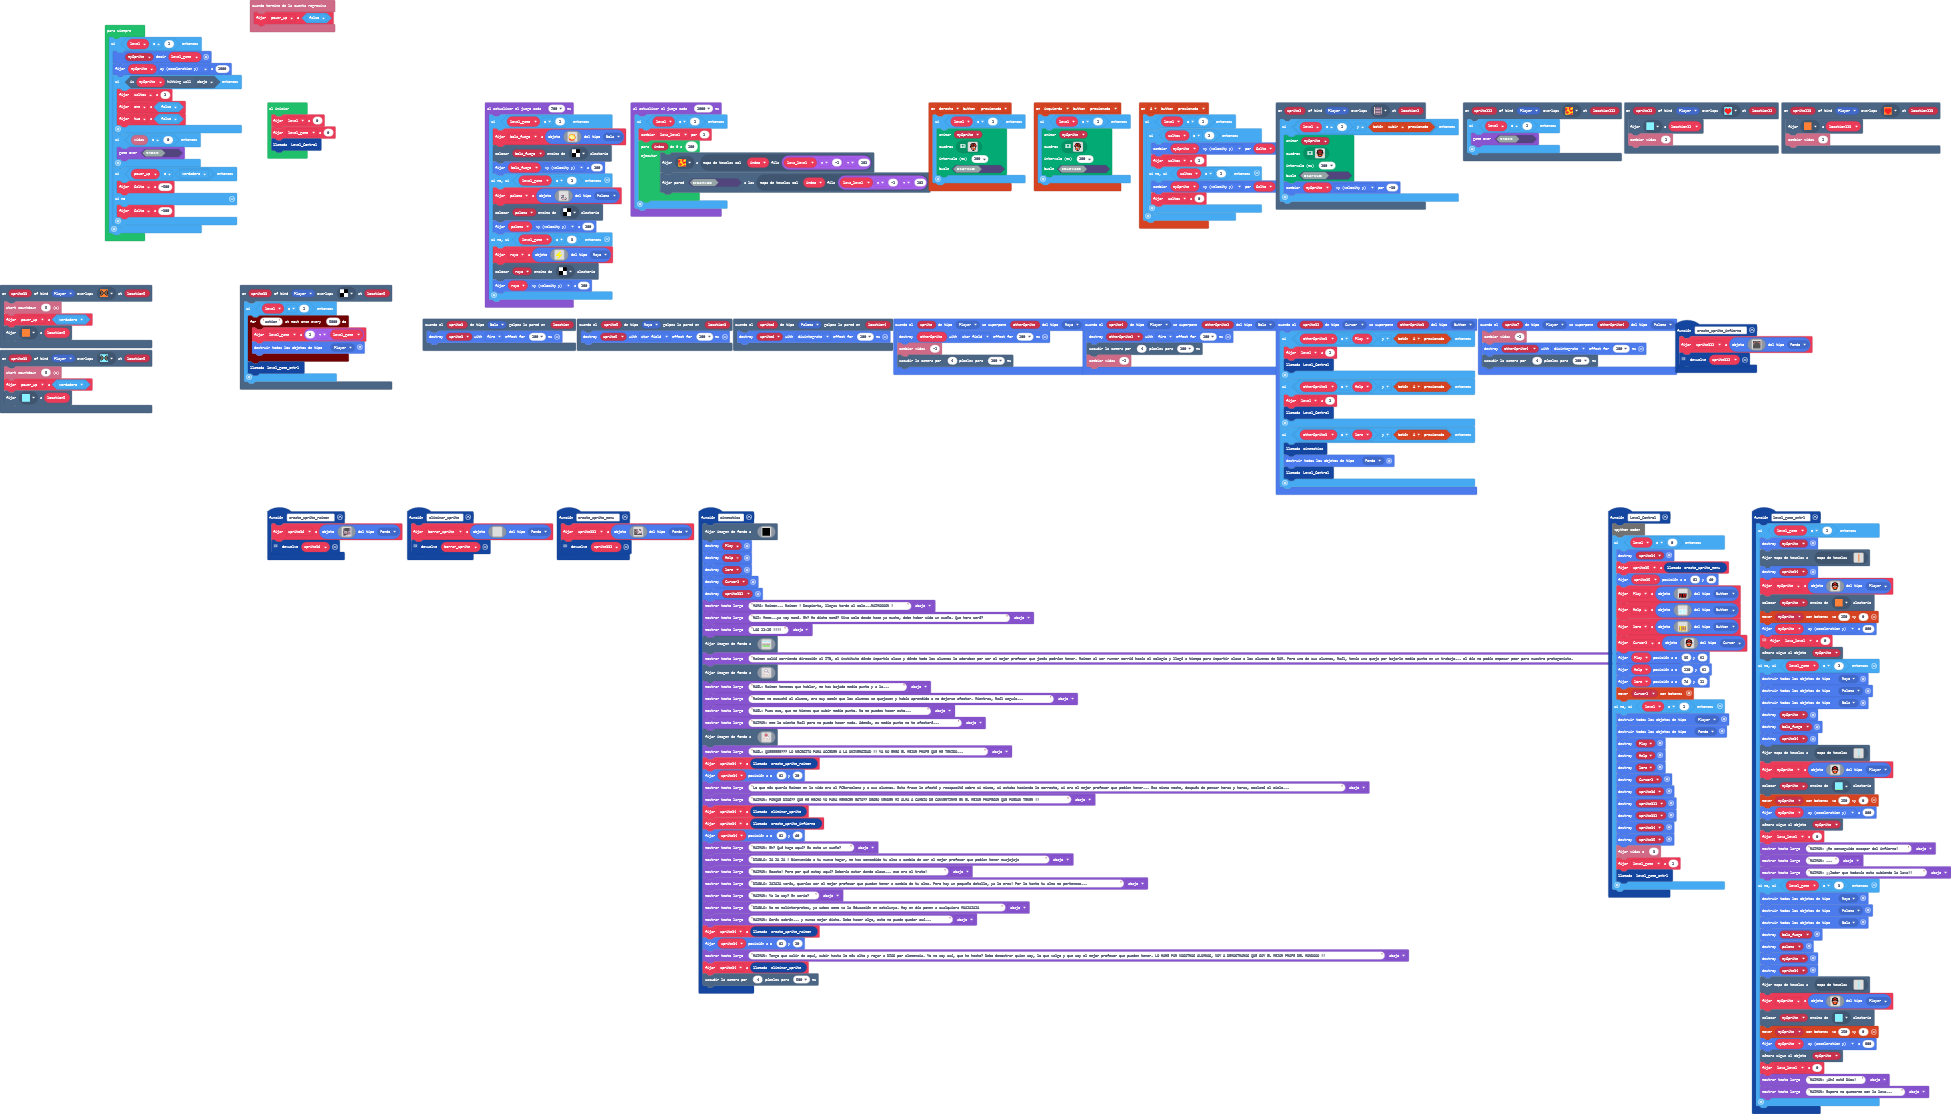
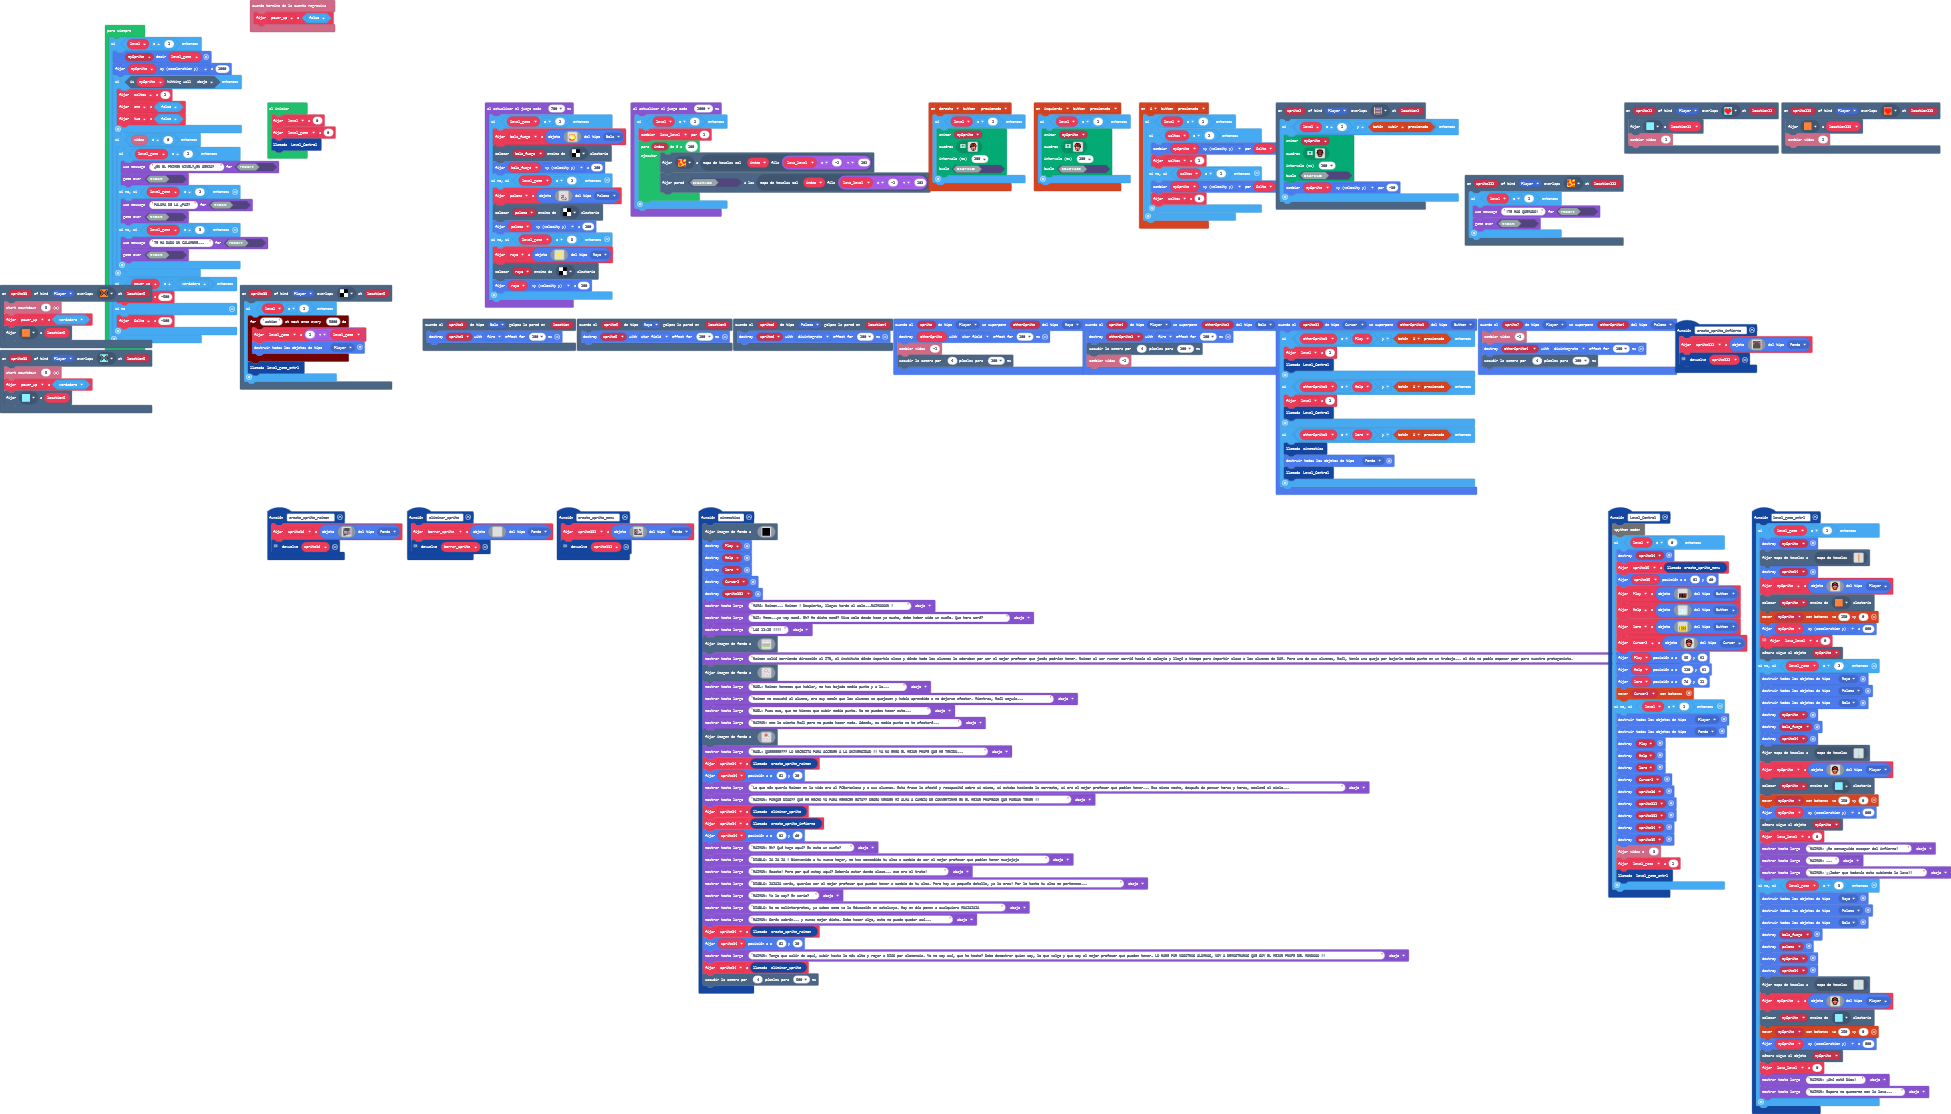
GAME OVER

Changed region(s): [[0.0308, 0.1221, 0.1538, 0.3052], [0.7381, 0.0916, 0.8303, 0.2442]]

diff --git a/main.ts b/main.ts
@@ -210,6 +210,7 @@ sprites.onOverlap(SpriteKind.Player, SpriteKind.Bola, function (sprite4, otherSp
 })
 scene.onOverlapTile(SpriteKind.Player, assets.tile`lava`, function (sprite222, location222) {
     if (level == 1) {
+        game.setGameOverMessage(false, "!TE HAS QUEMADO!")
         game.gameOver(false)
     }
 })
@@ -884,7 +885,16 @@ forever(function () {
             two = false
         }
         if (info.life() == 0) {
-            game.gameOver(false)
+            if (level_game == 1) {
+                game.setGameOverMessage(false, "¿EN EL PRIMER NIVEL?¿EN SERIO?")
+                game.gameOver(false)
+            } else if (level_game == 2) {
+                game.setGameOverMessage(false, "PALOMA DE LA ¿PAZ?")
+                game.gameOver(false)
+            } else if (level_game == 3) {
+                game.setGameOverMessage(false, "TE HA DADO UN CALAMBRE...")
+                game.gameOver(false)
+            }
         }
         if (power_up == true) {
             Salto = -500

diff --git a/main.py b/main.py
@@ -216,6 +216,7 @@ sprites.on_overlap(SpriteKind.player, SpriteKind.Bola, on_on_overlap3)
 
 def on_overlap_tile2(sprite222, location222):
     if level == 1:
+        game.set_game_over_message(False, "!TE HAS QUEMADO!")
         game.game_over(False)
 scene.on_overlap_tile(SpriteKind.player,
     assets.tile("""
@@ -1009,7 +1010,15 @@ def on_forever():
             one = False
             two = False
         if info.life() == 0:
-            game.game_over(False)
+            if level_game == 1:
+                game.set_game_over_message(False, "¿EN EL PRIMER NIVEL?¿EN SERIO?")
+                game.game_over(False)
+            elif level_game == 2:
+                game.set_game_over_message(False, "PALOMA DE LA ¿PAZ?")
+                game.game_over(False)
+            elif level_game == 3:
+                game.set_game_over_message(False, "TE HA DADO UN CALAMBRE...")
+                game.game_over(False)
         if power_up == True:
             Salto = -500
         else:
